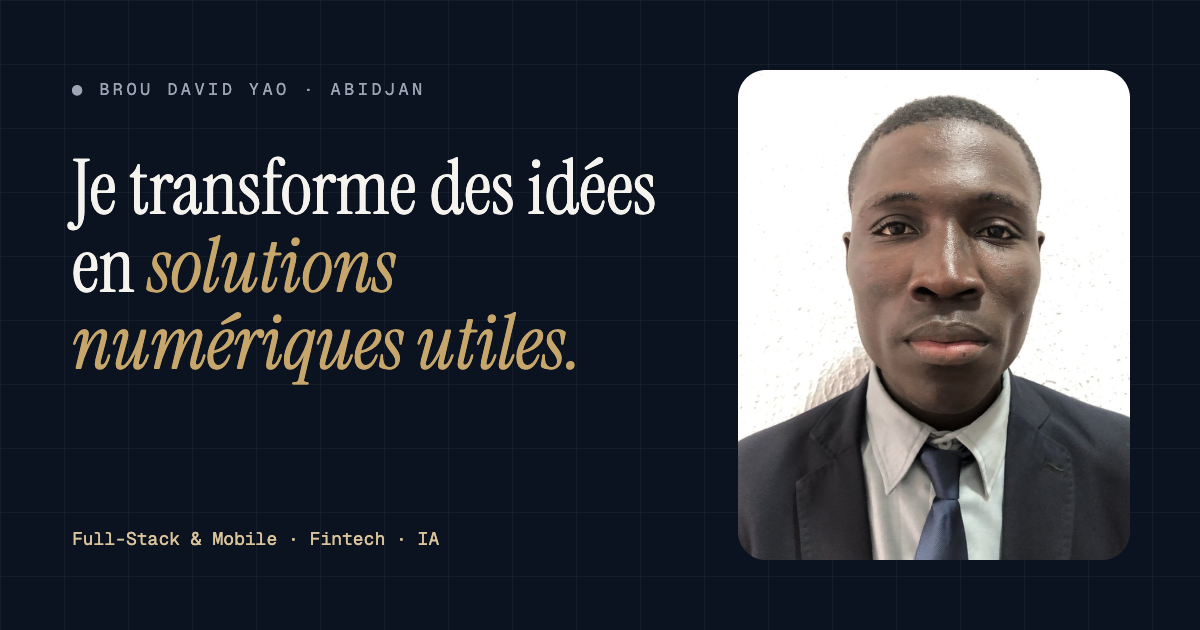
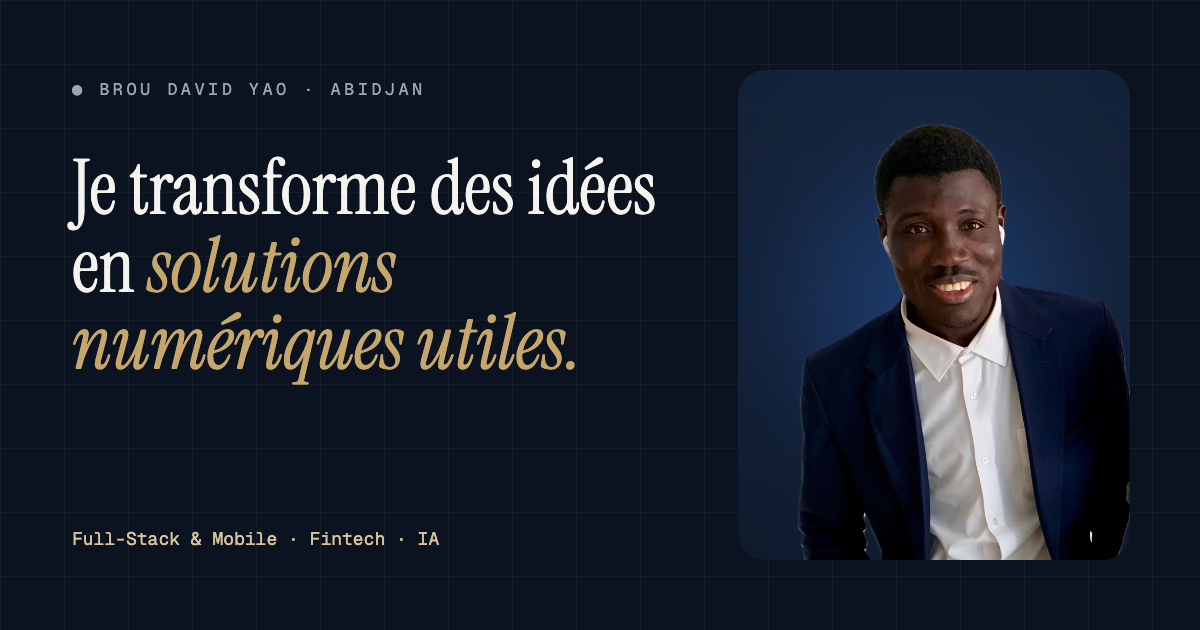
Nouvelle photo de profil (détourée, WebP) et image Open Graph

Changed region(s): [[0.6167, 0.0905, 0.9558, 0.9048]]

diff --git a/src/components/Hero.tsx b/src/components/Hero.tsx
@@ -99,20 +99,23 @@ export function Hero() {
         >
           <figure className="relative">
             <div aria-hidden="true" className="absolute inset-0 translate-x-3 translate-y-3 rounded-[1.75rem] border border-gold/40" />
-            <div className="relative aspect-[4/5] overflow-hidden rounded-[1.75rem] bg-deep">
+            <div className="relative aspect-[4/5] overflow-hidden rounded-[1.75rem] bg-gradient-to-b from-deep to-ink-2">
+              {/* Décor derrière le portrait détouré : grille fine + halo bleu discret */}
+              <div aria-hidden="true" className="bg-grid absolute inset-0 opacity-60 [mask-image:radial-gradient(ellipse_at_50%_35%,black,transparent_75%)]" />
+              <div aria-hidden="true" className="absolute left-1/2 top-[28%] h-64 w-64 -translate-x-1/2 rounded-full bg-electric/25 blur-[90px]" />
               {site.photo ? (
                 <img
                   src={site.photo}
                   alt={t.hero.photoAlt}
-                  width={720}
-                  height={900}
+                  width={900}
+                  height={1478}
                   fetchPriority="high"
-                  className="h-full w-full object-cover object-[50%_20%] grayscale-[15%]"
+                  className="relative h-full w-full object-cover object-[50%_0%] pt-6"
                 />
               ) : (
                 <div className="grid h-full place-items-center font-display text-8xl text-gold">BDY</div>
               )}
-              <div aria-hidden="true" className="absolute inset-0 bg-gradient-to-t from-ink/85 via-ink/5 to-transparent" />
+              <div aria-hidden="true" className="absolute inset-0 bg-gradient-to-t from-ink via-ink/20 to-transparent" />
               <figcaption className="absolute inset-x-0 bottom-0 flex items-end justify-between gap-4 p-5">
                 <div>
                   <p className="eyebrow !text-[0.62rem] text-paper/70">{t.hero.currently}</p>

diff --git a/src/config/site.ts b/src/config/site.ts
@@ -17,7 +17,7 @@ export const site = {
   /** Fichier dans /public. Laisser "" pour masquer le bouton CV. */
   cv: asset("/cv/Brou-David-Yao-CV.pdf"),
   /** Fichier dans /public. Laisser "" pour afficher le monogramme à la place. */
-  photo: asset("/images/brou-david-yao.jpg"),
+  photo: asset("/images/brou-david-yao.webp"),
 } as const;
 
 export type Site = typeof site;
